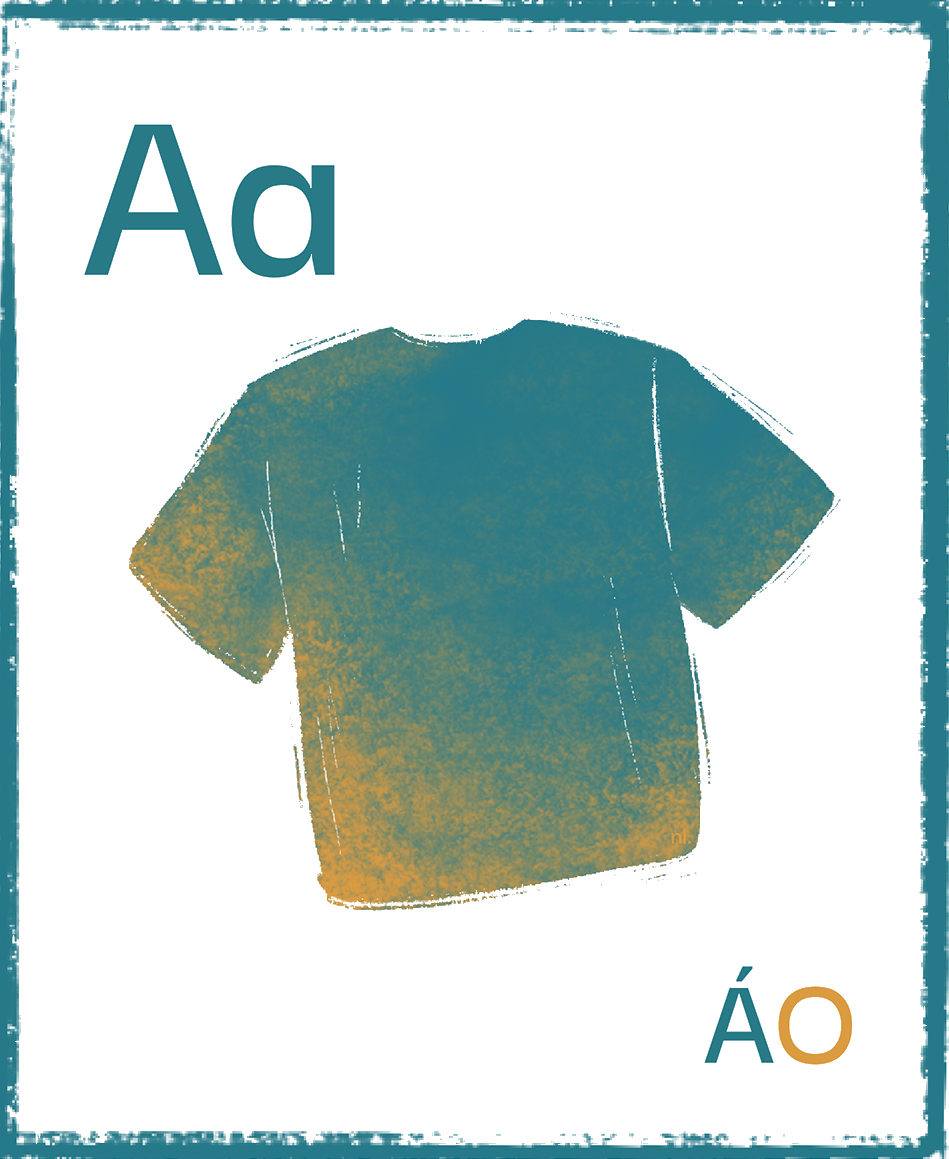
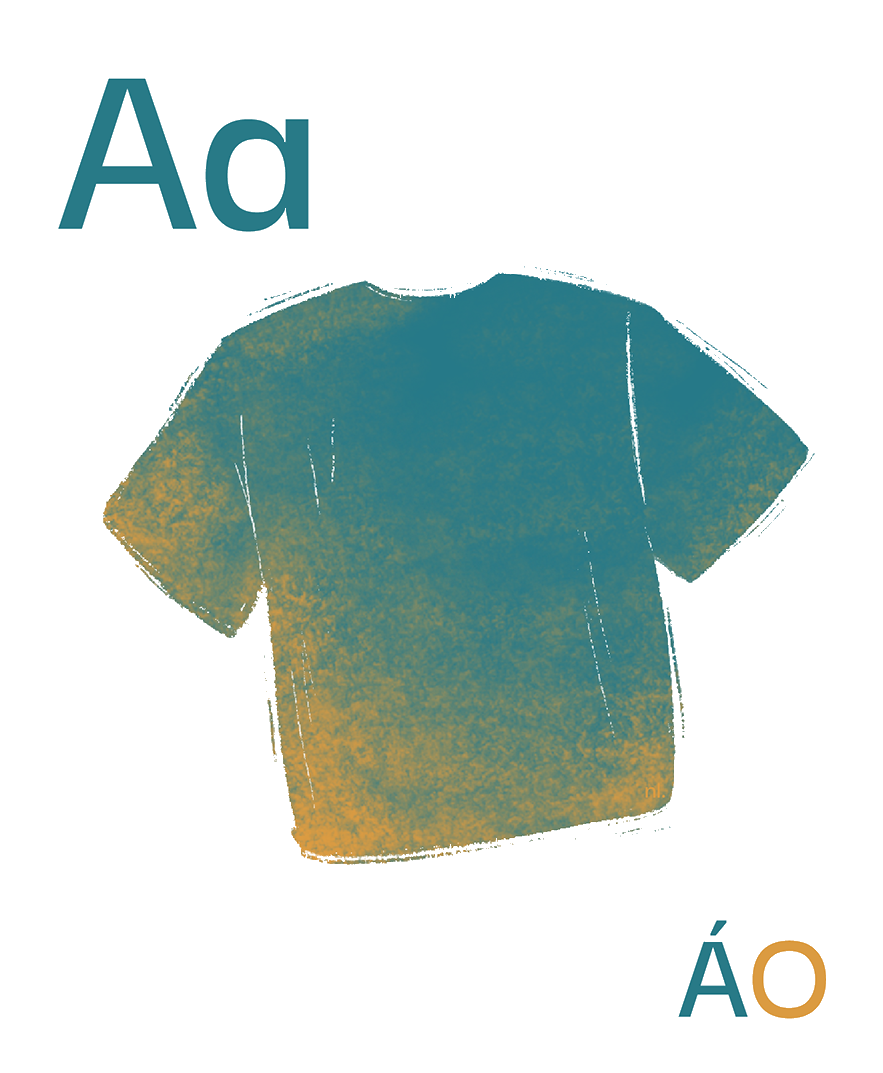
fix alphabet screen

diff --git a/screens/games/GameAlphabet.js b/screens/games/GameAlphabet.js
@@ -1,11 +1,18 @@
 import React, { useEffect, useState } from "react";
+import { ImageBackground } from "react-native";
 import { Image } from "react-native";
 import { StyleSheet, View } from "react-native";
 import { Text } from "react-native-elements";
 import { TouchableOpacity } from "react-native-gesture-handler";
 import Orientation from "react-native-orientation-locker";
 import { ImageButton } from "../../components/Button";
-import ImageManager, { IconManager, getImage } from "../../utils/image";
+import { colors, sizes } from "../../constants";
+import {
+  IconManager,
+  getImage,
+  ImageManager,
+  autoSize,
+} from "../../utils/image";
 import { playSoundFile } from "../../utils/sound";
 
 const GameAlphabet = ({ navigation }) => {
@@ -161,7 +168,10 @@ const GameAlphabet = ({ navigation }) => {
   };
 
   return (
-    <View style={{ backgroundColor: "#34A853", width: "100%", height: "100%" }}>
+    <ImageBackground
+      style={{ backgroundColor: "white", width: "100%", height: "100%" }}
+      source={ImageManager.alphabet.grid}
+    >
       <View
         style={{
           flex: 1,
@@ -206,7 +216,16 @@ const GameAlphabet = ({ navigation }) => {
           >
             <Image
               source={getAlphabetImage(chosenLetterIndex)}
-              style={styles.alphabetImage}
+              style={{
+                ...styles.alphabetImage,
+                resizeMode: "contain",
+                height: autoSize(
+                  getAlphabetImage(chosenLetterIndex),
+
+                  null,
+                  sizes.short / 1.5
+                ).height,
+              }}
             />
           </View>
           <View
@@ -221,7 +240,7 @@ const GameAlphabet = ({ navigation }) => {
           </View>
         </View>
       </View>
-    </View>
+    </ImageBackground>
   );
 };
 
@@ -246,8 +265,9 @@ const styles = StyleSheet.create({
     fontWeight: "bold",
   },
   alphabetImage: {
-    width: "60%",
-    height: "90%",
+    // width: "60%",
+    // height: "90%",
+    marginTop: -32,
     marginLeft: 16,
   },
   // mediumCountingItem: {

diff --git a/screens/games/Movies.js b/screens/games/Movies.js
@@ -4,7 +4,7 @@ import { colors, sizes } from "../../constants";
 import { Frame, NoScrollView, Space } from "../../components/Wrapper";
 import { ImageButton, StoryObject } from "../../components/Button";
 import { createSound } from "../../utils/sound";
-import { ImageManager, appIcon, autoSize } from "../../utils/image";
+import { ImageManager, IconManager, autoSize } from "../../utils/image";
 import { Heading1 } from "../../components/Typography";
 import Carousel from "react-native-snap-carousel";
 import YoutubePlayer from "react-native-youtube-iframe";
@@ -130,13 +130,13 @@ export const Movies = ({ navigation }) => {
             width={45}
             onPress={() => setFilter("new")}
             disable={filter !== "new"}
-            source={appIcon.whitestar}
+            source={IconManager.whitestar}
           />
           <ImageButton
             width={45}
             onPress={() => setFilter("watched")}
             disable={filter !== "watched"}
-            source={appIcon.history}
+            source={IconManager.history}
           />
         </Space>
       </View>
@@ -156,14 +156,14 @@ export const Movies = ({ navigation }) => {
               width={45}
               block={index <= 0}
               onPress={() => setIndex(index - 1)}
-              source={appIcon.movies.previousgold}
+              source={IconManager.movies.previousgold}
             />
             <Heading1 white>{`${index + 1}/${currentList.length}`}</Heading1>
             <ImageButton
               width={45}
               block={index >= currentList.length - 1}
               onPress={() => setIndex(index + 1)}
-              source={appIcon.movies.nextgold}
+              source={IconManager.movies.nextgold}
             />
           </Space>
         </View>
@@ -181,7 +181,7 @@ export const Movies = ({ navigation }) => {
         <ImageButton
           width={45}
           onPress={() => goHome()}
-          source={appIcon.home}
+          source={IconManager.home}
         />
       </View>
 

diff --git a/screens/games/Story.js b/screens/games/Story.js
@@ -4,7 +4,7 @@ import { colors, sizes } from "../../constants";
 import { Frame, NoScrollView, Space } from "../../components/Wrapper";
 import { ImageButton, StoryObject } from "../../components/Button";
 import { createSound } from "../../utils/sound";
-import { ImageManager, appIcon } from "../../utils/image";
+import { ImageManager, IconManager } from "../../utils/image";
 import { Heading1 } from "../../components/Typography";
 
 const gameImages = ImageManager.rabbitAndTurtle;
@@ -379,7 +379,7 @@ export const Story = ({ navigation }) => {
     return (
       <Frame>
         <ImageButton
-          source={appIcon.next}
+          source={IconManager.next}
           title="Bắt đầu"
           onPress={() => handleStart()}
         />
@@ -439,24 +439,24 @@ export const Story = ({ navigation }) => {
             <ImageButton
               height={45}
               onPress={() => goBack()}
-              source={appIcon.home}
+              source={IconManager.home}
             />
             <ImageButton
               height={45}
               onPress={() => handleReplay()}
-              source={appIcon.replay}
+              source={IconManager.replay}
             />
             <ImageButton
               block={page < 1}
               height={45}
               onPress={() => handlePrevious()}
-              source={appIcon.back}
+              source={IconManager.back}
             />
             <ImageButton
               block={page >= pages}
               height={45}
               onPress={() => handleNext()}
-              source={appIcon.next}
+              source={IconManager.next}
             />
             <Heading1 white>{page + 1}</Heading1>
           </Space>

diff --git a/components/Button.js b/components/Button.js
@@ -93,6 +93,11 @@ export const ImageButton = ({
   );
 };
 
+// media: [source1, source2, source]
+// index: [1]
+// width (1/5 cua chieu ngang/rong cua buc hinh)
+// height  (1/5 cua chieu ngang/rong cua buc hinh)
+// top, right, left, bottom (dich sang ben ... n lan 1/5 cua chieu ngang/rong cua buc hinh)
 export const StoryObject = ({
   media,
   index,
